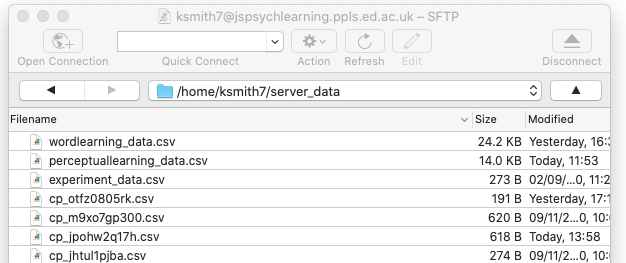
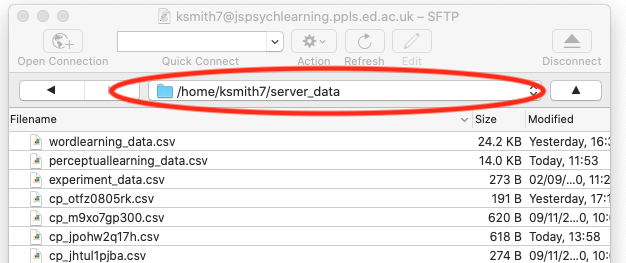
Adding wk 10 practical outline
Barse bones for the markdown, plus various images we need to show correct set-up.

Changed region(s): [[0.1518, 0.2433, 0.8802, 0.4563]]

diff --git a/oels_practical_wk10.md b/oels_practical_wk10.md
@@ -1,0 +1,76 @@
+---
+title: Week 10 practical
+description: reading trial lists from CSVs again, PHP scripts for iteration
+---
+
+## The plan for week 10 practical
+
+This week we are going to look at code for an iterated learning experiment, a simplified version of the experiment described in Beckner et al. (2017). There's no new material to look at in the Online Experiments with jsPsych tutorial.
+
+In terms of the trial types we need to present to participants, this experiment is actually very simple, and uses elements of the code we developed in the practicals on word learning, perceptual learning and dyadic interaction.
+- Participants go through an initial observation phase where they are exposed to two objects paired with short and long labels. Again, this is basically identical to the observation phase of the word learning experiment in `word_learning.js`.
+- In the final test, where participants try to reproduce the language they are trained on, participants are presented with an object and asked to produce a label/description for it. Beckner et al. used a free-typing production method, where people type stuff in. In some recent work with online iterated learning we (my RA Clem Ashton and I) switched to a more constrained production model:
+participants are provided with a set of syllable options, and build complex labels by clicking on those syllable buttons. This reduces or removes the problem of participants typing English (e.g. "don't know", "no idea")
+or near-English versions of random labels (e.g. "vukano" -> "volcano"), which we were getting a lot of with free-typed responses on MTurk. Anyway, the upshot is that I have made a new plugin, `image-button-buildlabel-response` which is like the standard `image-button-response` plugin but allows you to click multiple buttons and build up a label. We use that in the production trials.
+
+The complication this week is that rather than pre-specifying the language participants have to learn, we are running an *iterated learning* design: the language produced by one participant in the production phase becomes the input language to another participant in the observation phase, allowing us to pass the language from person to person and watch it evolve. Participants are organised in *chains*, where the participant at generation n in a particular chain learns from the language produced by the generation n-1 participant in that chain.
+
+There are a number of ways you could do this for an online experiment. You could write a python server, a bit like the one we used for dyadic interaction, that keeps track of which chains are running, which participants are in which chains, and then passes over the appropriate training data when a new participant starts the experiment. Or you can run a database on the server (in another language, SQL, designed for managing databases), that does the same kind of thing, keeping track of which chains are open, which participants are in which chain, and so on.
+
+But here we are going to go for a low-tech approach, using CSV files on the server to store the languages participants are producing, and then using PHP scripts (just like the ones we use for saving data) to write to those files, moves files around to different folders, and so on. This hopefully means that we can get an iterated learning experiment up and running without any extra fancy bells and whistles. In fact, in the confederate priming code we already looked at reading CSV files from the server to build a trial list, so some of the principles involved here are the same (e.g. using asynchronous functions to make javascript wait while PHP is off reading a file from the server). Again, like last week, I won't bother you with the contents of the PHP files too much, and instead talk you through the code at a conceptual level, focussing on the jsPsych end of things.  
+
+Remember, as usual the idea is that you do as much of this as you can on your own (might be none of it, might be all of it) and then come to the practical drop-in sessions or use the chat on Teams to get help with stuff you need help with.
+
+## An iterated learning experiment
+
+### Getting started
+
+*Important note:* This experiment requires a bit of careful set-up in your `server_data` folder on the jspsychlearning server, so don't just download it and start running it - read below for instructions on how to set everything up, otherwise the code will behave strangely and you'll be confused!
+
+You need a bunch of files for this experiment - an html file, a couple of js files, some images, and a bunch of php files. Download the following zip file and then uncompress it into your usual jspsych folder:
+- <a href="code/iterated_learning.zip" download> Download iterated_learning.zip</a>
+
+This code won't work on your local computer, it needs to be on the jspsychlearning server - so once you have extracted the zip file, you need to upload the whole `iterated_learning` folder to your `public_html` folder on the jspsychlearning server, alongside your various other experiment folders and your `jspsych-6.1.0` folder. Here's what my `public_html` folder looks like on cyberduck.
+
+![my public_html folder](images/il_directory_structure.png)
+
+You also need to tweak the `iterated_learning.js` code so it saves data to *your* `server_data` folder rather than mine. I have tried to make this more straightforward this week, so rather than messing with any of the PHP files, you can edit this in one place and it will work nicely everywhere. Open `iterated_learning.js` in an editor and find theline that says
+```js
+var myUUN = 'ksmith7'
+```
+In the version of the code I am looking at, that's around line 50. Then just swap my UUN (ksmith7) for yours - e.g. if your account name on the server is s1234567, change that line so it reads:
+```js
+var myUUN = 's1234567'
+```
+
+Finally, we need to set up some stuff in your `server_data` folder. Managing this iterated learning experiment means we need to keep track of several things. First, we want to record participant data trial-by-trial as it comes in, just like we also do. But we also need to keep track of which chains are available to iterate, which chains are currently being worked on by a participant, and which generations of which chains are completed and don't need to be messed with any more. We are going to manage that stuff by moving filers from folder to folder in `server_data`, so we need to set up those directories, and also drop in some starting languages to initialise our chains.
+
+To do that, navigate into your `server_data` folder on cyberduck - you need to make sure that the folders you are creating inherit their access permissions etc from the main `server_data` folder, which you do by getting right into that folder on cyberduck before creating any new folders. So double-click the `server_data` folder so your navigation bar in cyberduck looks something like like this (but with your UUN rather than mine obviously)
+![cyberduck in server_data](images/create_audio_folder.png)
+
+Once you are there, create a new folder (Action ... New folder in cyberduck) and call that folder `il`. Then double-click to enter the `il` folder, and create *four* new folders in there, called `ready_to_iterate`, `undergoing_iteration`, `completed_iteration` and `participant_data`. Here's what my server_data folder looks like after that step - you can see the `il` directory with the 4 sub-directories. Note that you have to get the folder names exactly right, otherwise the code won't be able to find the stuff it needs.
+
+![il directory structure](images/il_detailed_directory_structure.png)
+
+We are going to use `participant_data` to save our trial-by-trial data like we usually do; the other 3 folders will be used to keep track of the state of each iterated learning chain.
+
+Finally, we need to make some initial (generation 0) languages available. If you look in the `iterated_learning` directory you got from the zip file above, there's a sub-folder called `initial_languages_for_server_data`, containing two CSV files called `chain1_g0.csv` and `chain2_g0.csv`. Grab those and put them in the `ready_to_iterate` folder you just created in `server_data` - these are random languages that can server as the starting point for two iterated learning chains. Once you've done that, your `server_data` folder looks like this, and you are ready to go!
+
+![il directory structure with initial languages](images/il_detailed_directory_structure_plus_g0.png)
+
+
+### Managing an iterated learning experiment via PHP scripts
+
+In prep!
+
+## Exercises with the iterated learning experiment code
+
+In prep!
+
+## References
+
+[Beckner, C., Pierrehumbert, J., & Hay, J. (2017). The emergence of linguistic structure in an online iterated learning task. *Journal of Language Evolution, 2*, 160–176.](https://doi.org/10.1093/jole/lzx001)
+
+## Re-use
+
+All aspects of this work are licensed under a [Creative Commons Attribution 4.0 International License](http://creativecommons.org/licenses/by/4.0/).
